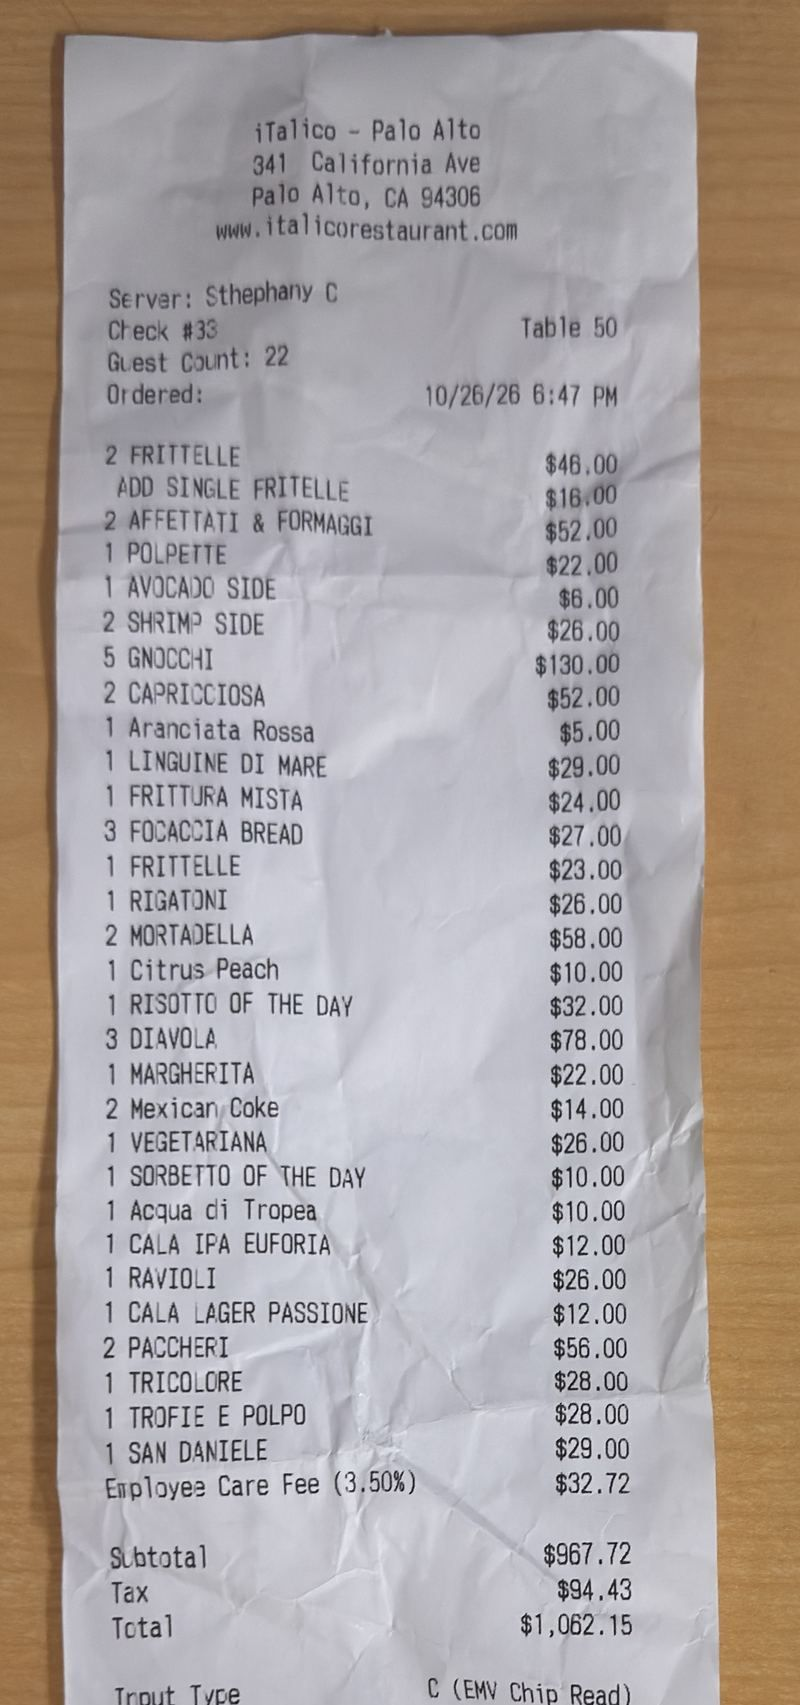
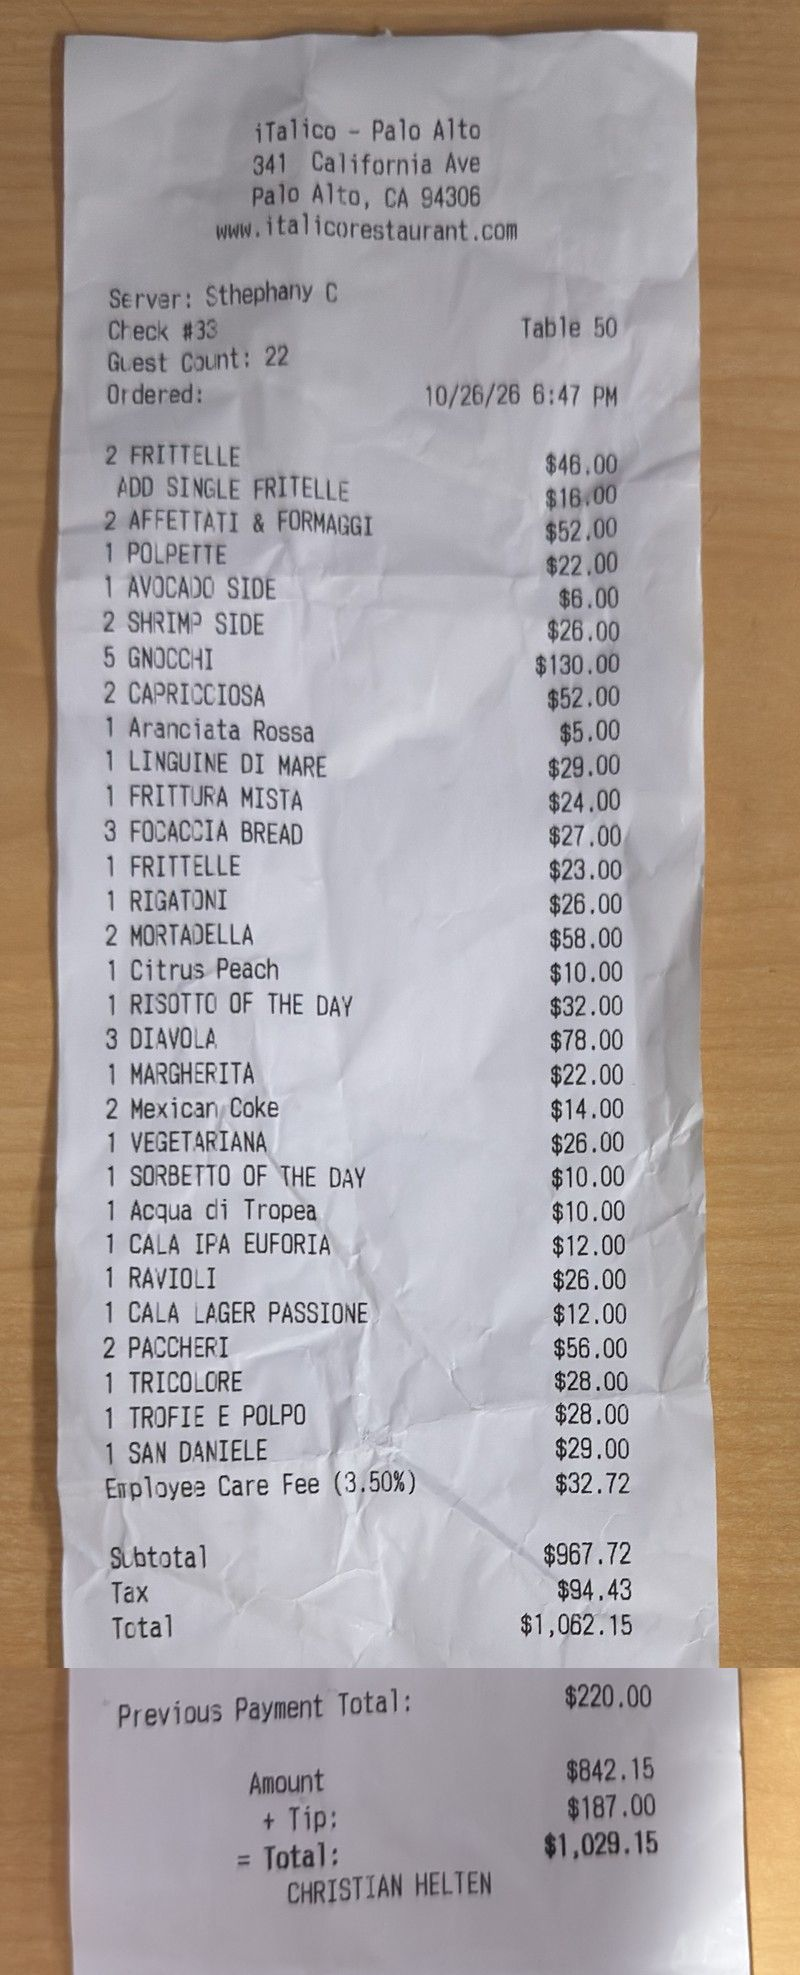
Receipt image: include previous payment, tip and card total

diff --git a/index.html b/index.html
@@ -206,7 +206,7 @@ li.tile.gone .who{display:block;font-size:13px;color:var(--ink-2);margin-top:2px
     <aside class="gallery" aria-label="The check">
       <details id="receipt">
         <summary>See the receipt</summary>
-        <img src="receipt.jpg" width="800" height="1705" alt="The printed iTalico receipt: 30 items, employee care fee $32.72, subtotal $967.72, tax $94.43, total $1,062.15." loading="lazy">
+        <img src="receipt.jpg" width="800" height="1975" alt="The printed iTalico receipt: 30 items, employee care fee $32.72, subtotal $967.72, tax $94.43, total $1,062.15; previous payment $220.00, then $842.15 plus $187.00 tip, $1,029.15 paid by Christian Helten. Card details cut out." loading="lazy">
       </details>
       <section class="check" aria-labelledby="check-h">
         <h2 id="check-h">The check.</h2>
